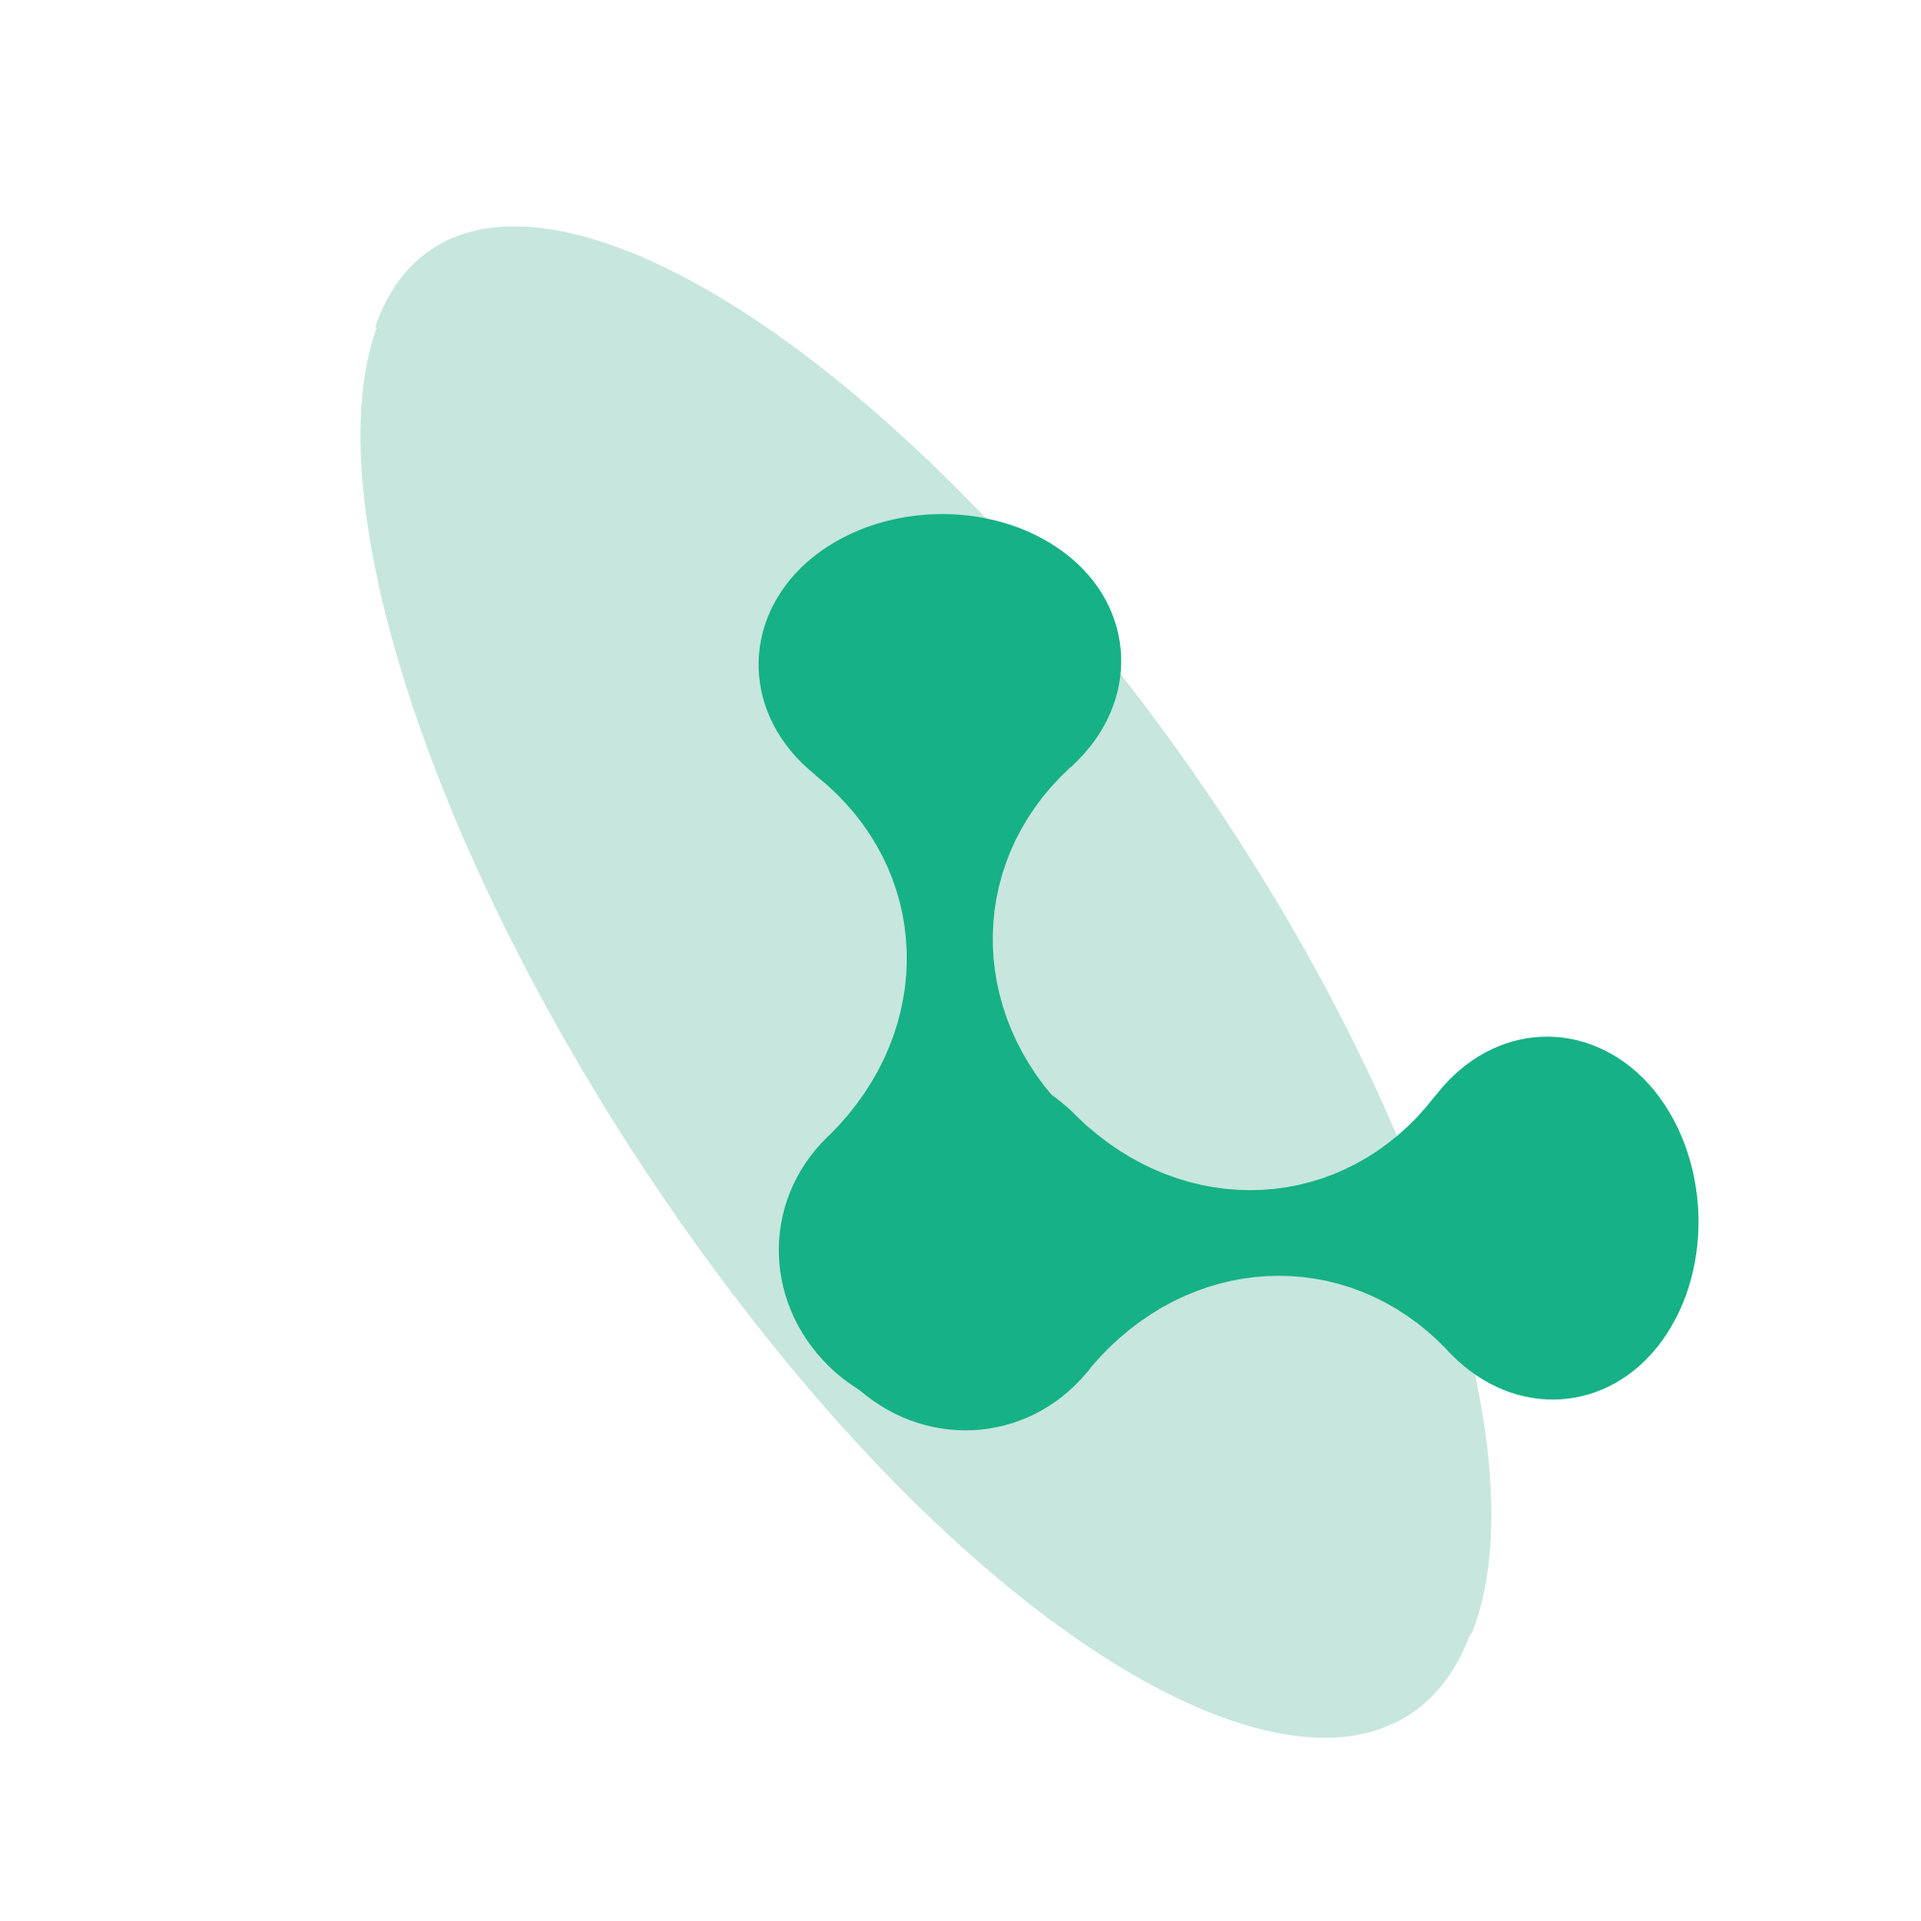
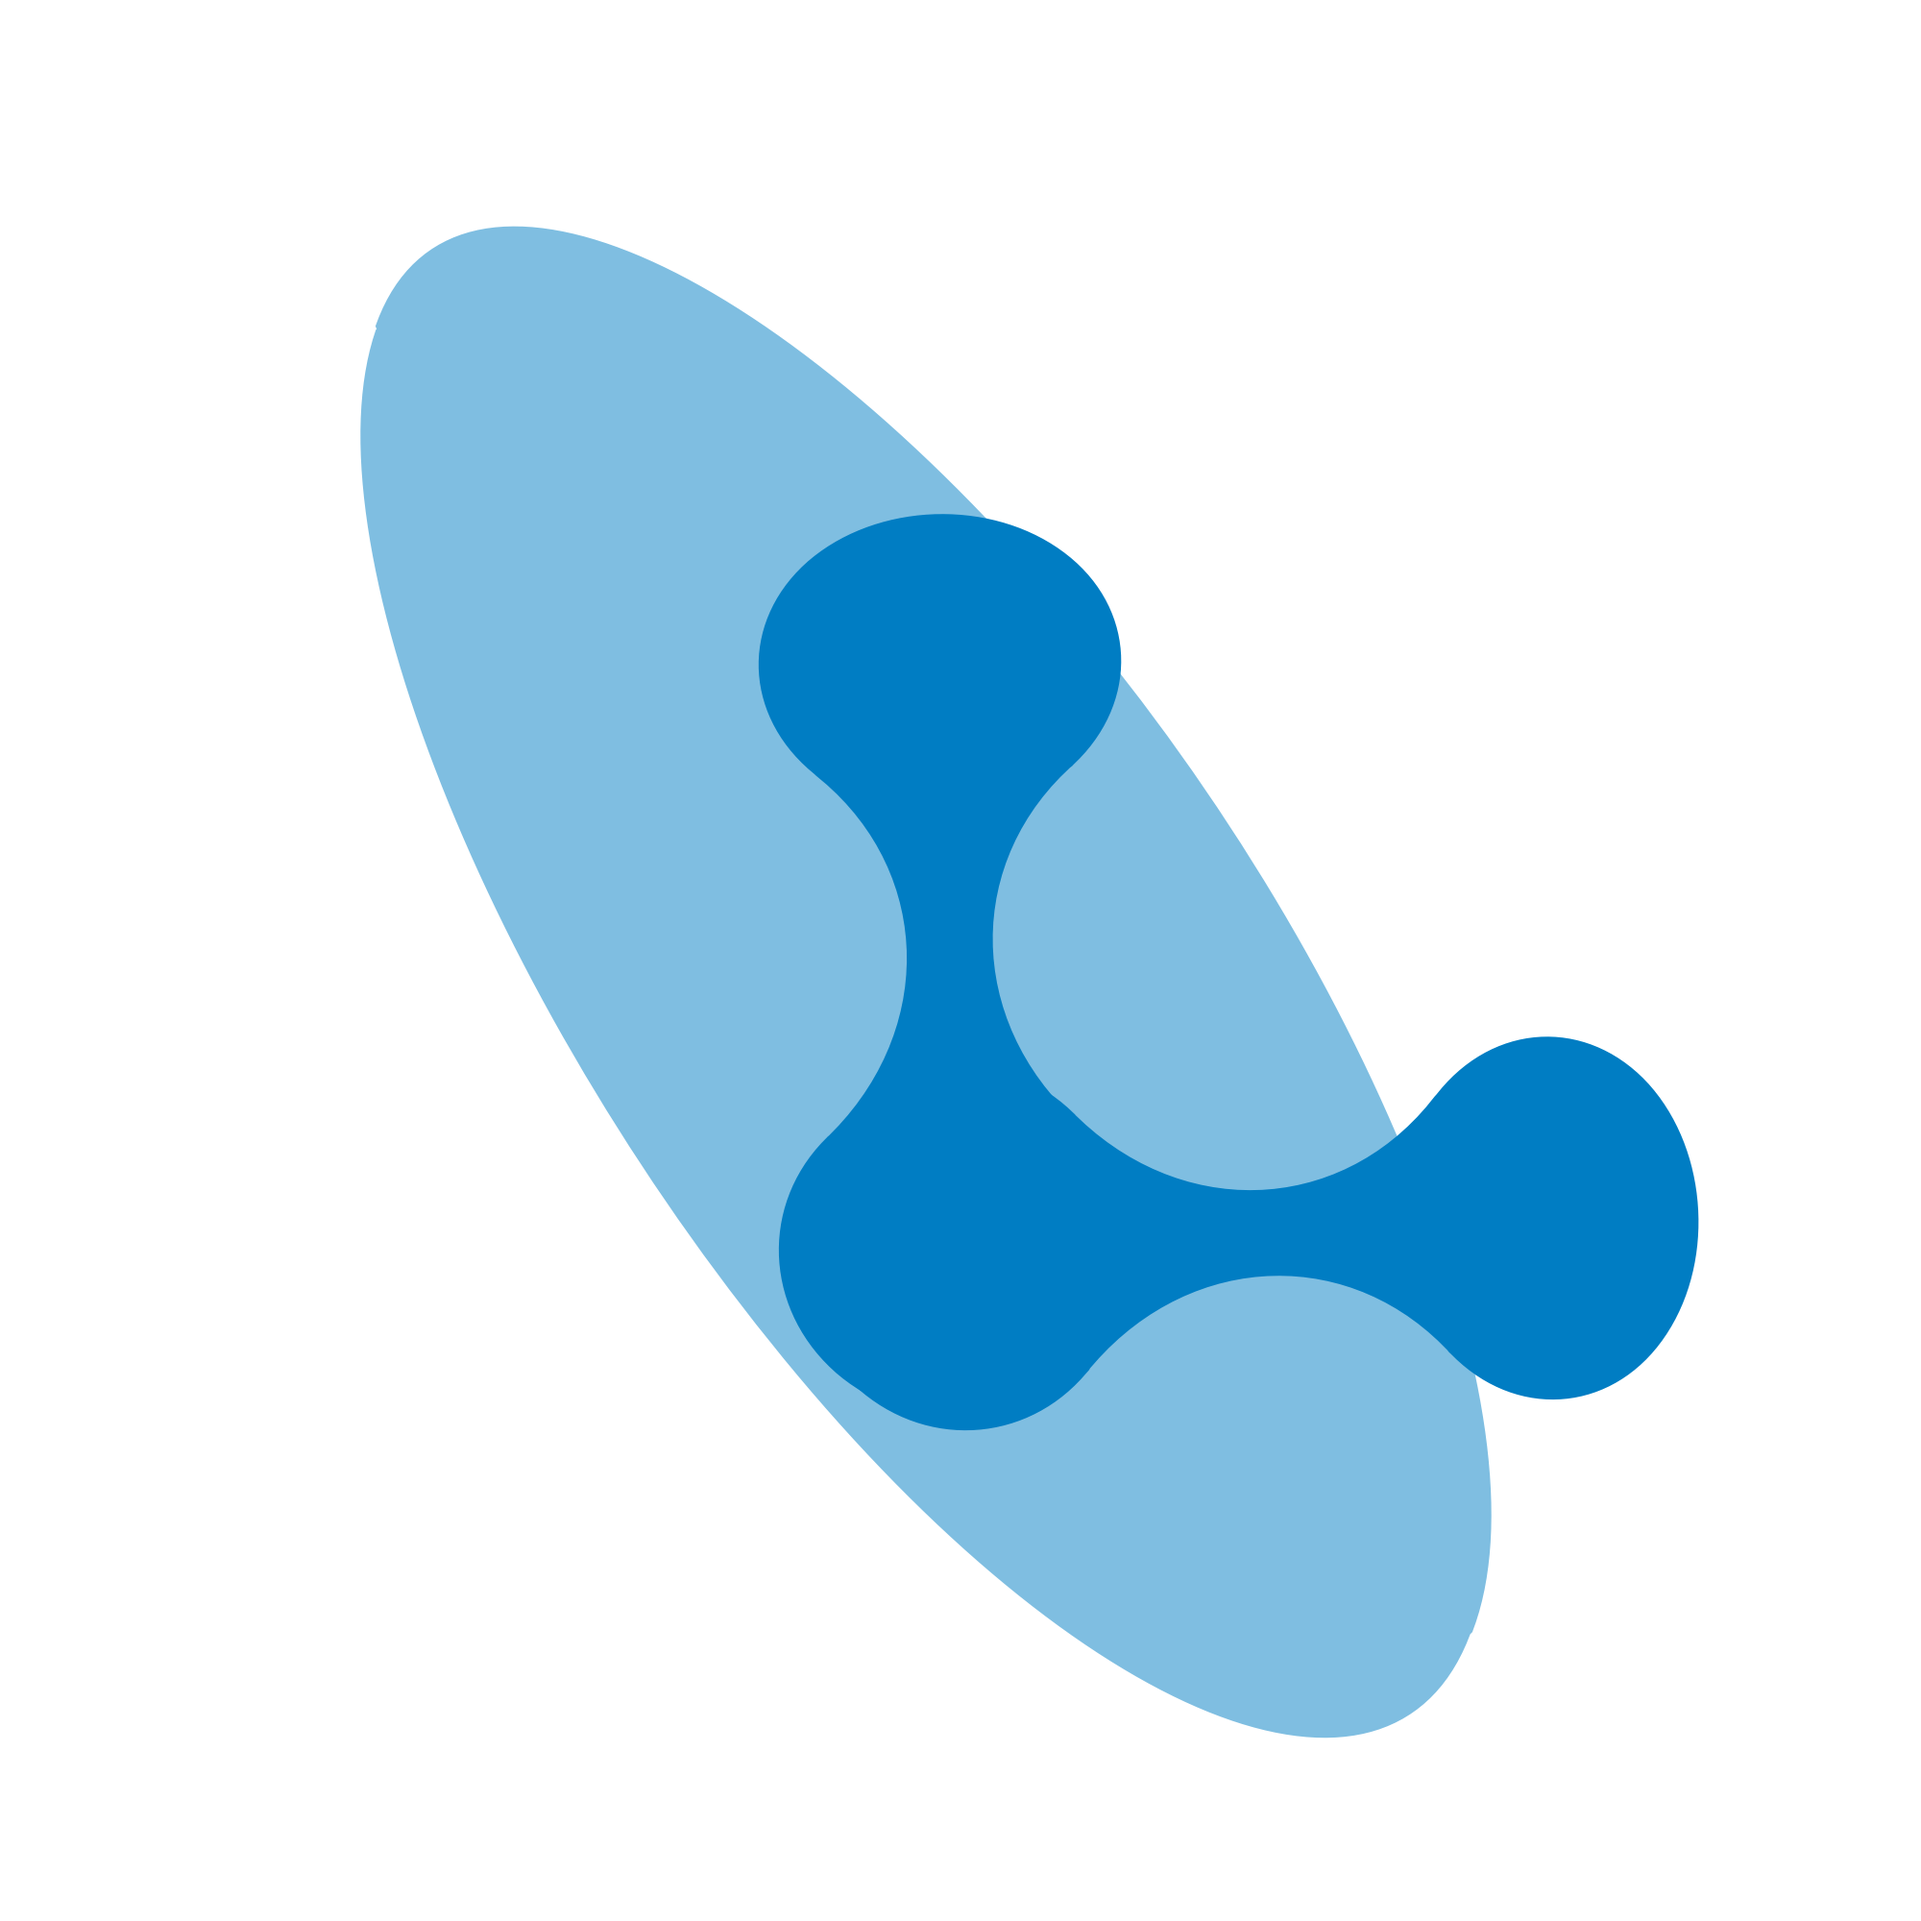
style: Change primary color. feat: Add contact phone numbers

Changed region(s): [[0.186, 0.093, 0.899, 0.93]]

diff --git a/src/components/direccion/direccion.component.jsx b/src/components/direccion/direccion.component.jsx
@@ -4,7 +4,7 @@ import styled from "styled-components"
 import Seccion from "../seccion/seccion.component"
 import Center from "../center/center.component"
 
-import { FaMapMarkerAlt } from "react-icons/fa"
+import { FaMapMarkerAlt, FaPhone } from "react-icons/fa"
 
 const Direccion = ({ className }) => {
   return (
@@ -19,6 +19,12 @@ const Direccion = ({ className }) => {
               <span>Nuestra oficina en Google Maps</span>
             </a>
           </div>
+          <div className="link">
+            <a target='blank' href="tel:55-9171-2105">
+              <FaPhone />
+              <span>55-9171-2105    |    55-9172-1612</span>
+            </a>
+          </div>
         </Center>
       </Seccion>
     </div>
@@ -31,16 +37,18 @@ export default styled(Direccion)`
 }
 .direccion span {
   font-size: 0.9rem;
-  
+  min-width: 20rem
 }
 .link{
-  font-size: 1rem;
+  font-size: 1rem;;
 }
 .link span {
     font-size: 1rem;
     font-weight: 300;
     margin-left: 0.5rem;
     display: inline-block;
+    text-align: left;
+    margin-left: 2rem;
   }
 
   .link a {
@@ -49,6 +57,6 @@ export default styled(Direccion)`
     justify-content: center;
     font-size: 1.5rem;
     font-weight: 400;
-    margin: 2rem;
+    margin: 2rem 1rem 1rem;
     color: #16b186;
   }`

diff --git a/src/components/boton/boton.component.jsx b/src/components/boton/boton.component.jsx
@@ -24,15 +24,15 @@ export default styled(Boton)`
   font-size: 0.9rem;
   font-weight: 400;
   letter-spacing: 0.5px;
-  background: #16b186;
+  background: var(--primaryColor);
   color: #fff;
   display: inline-block;
   transition: all 0.3s linear;
   cursor: pointer;
-  border: ${props => props.contrast ? '2px solid white' : '2px solid #16b186'};
+  border: ${props => props.contrast ? '2px solid white' : '2px solid var(--primaryColor)'};
   border-radius: 100px;
   &:hover {
     background: transparent;
-    color: #16b186;
+    color: var(--primaryColor);
   }
 `

diff --git a/src/components/layout/layout.global-styles.css b/src/components/layout/layout.global-styles.css
@@ -1,10 +1,10 @@
 @import url('https://fonts.googleapis.com/css?family=Nunito:300,400,600,700,900&display=swap');
 
 :root {
-  --primaryColor: #16b186;
+  --primaryColor: #007DC3; /*  #16b186 */
   --mainWhite: #fff;
   --offWhite:  #f7f6f9;  /* linear-gradient(180deg,#f7f6f9 0,#fff 100%); */
-  --mainBlack: #233748;
+  --mainBlack: #000E19; /* #233748 */
   --mainGrey: #ececec;
   --darkGrey: #afafaf;
   --mainBlackText: #131726;

diff --git a/src/components/Home/hero-content/hero-content.component.jsx b/src/components/Home/hero-content/hero-content.component.jsx
@@ -32,12 +32,12 @@ const HeroContent = ({ className }) => {
 export default styled(HeroContent)`
   .particles-wrapper,
   .button-wrapper {
-    margin-top: 1.5rem;
+    margin-top: 1rem;
   }
 
   ${breakpoint("tablet")`
   .particles-wrapper, .button-wrapper {
-    margin-top: 2.5rem;
+    margin-top: 1rem;
   }
   `}
 

diff --git a/src/components/card/card.component.jsx b/src/components/card/card.component.jsx
@@ -73,7 +73,7 @@ export default styled(Card)`
     font-size: 1.5rem;
     font-weight: 400;
     margin: 2rem;
-    color: #16b186;
+    color: var(--primaryColor);
   }
   .publicacion {
     display: flex;
